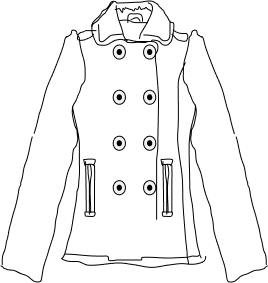
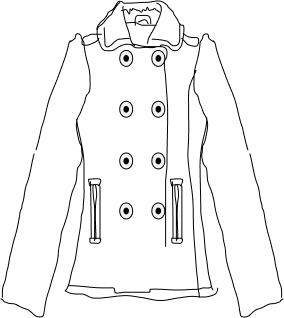
sketch projects Block Fix

diff --git a/index.html b/index.html
@@ -101,20 +101,20 @@
         <h2 class="my-4 p-4 custom-bg-black text-white d-inline-block">Glen's top sketch Projects</h2>
       </div>
 
-      <div class="d-flex flex-wrap flex-column justify-content-center flex-md-row px-5 px-md-0 px-xl-5 pb-2 group-sketch-projects">
+      <div class="d-flex flex-wrap flex-row justify-content-center px-5 pb-2 group-sketch-projects">
         <!--Sketch-project1-->
-        <div class="col-12 col-sm-10 mx-auto col-md-5 col-lg-4 d-flex mt-5 pr-1 custom-bg-sketch1">
-          <div class="col col-sm-7 pr-0">
+        <div class="mx-auto d-flex mt-5 pr-1 custom-bg-sketch1">
+          <div class="col-7 pr-0 position-relative">
             <div class="mt-4 ml-0 ml-sm-2 mr-0 pt-2 text-center bg-white">
               <div class="h3 m-0 font-weight-bold text-dark">Flat Sketches</div>
               <div class="h4 m-0">Swing Gown</div>
             </div>
 
-            <div class="col-12 h-75 mx-auto position-relative" id="image-sketch-project1">
+            <div class="w-100 h-100 mx-auto position-absolute" id="image-sketch-project1">
             </div>
           </div>
 
-          <div class="bg-white p-3 col col-sm-5">
+          <div class="bg-white p-3 col-5">
             <p class="mt-3">
               <span class="font-weight-bold">Flat Fashion: </span> <br>
               Summer Dress
@@ -133,18 +133,18 @@
         </div>
 
         <!--Sketch-project2-->
-        <div class="col-12 col-sm-10 mx-auto col-md-5 col-lg-4 d-flex mt-5 pr-1 custom-bg-sketch2">
-          <div class="col col-sm-7 pr-0">
+        <div class="mx-auto d-flex mt-5 pr-1 custom-bg-sketch2">
+          <div class="col-7 pr-0 position-relative">
             <div class="mt-4 ml-0 ml-sm-2 mr-0 pt-2 text-center bg-white">
               <div class="h3 m-0 font-weight-bold text-dark">Flat Sketches</div>
               <div class="h4 m-0">Show Back</div>
             </div>
 
-            <div class="col-12 h-75 mx-auto position-relative" id="image-sketch-project2">
+            <div class="w-100 h-100 mx-auto position-absolute" id="image-sketch-project2">
             </div>
           </div>
 
-          <div class="bg-white p-3 col col-sm-5">
+          <div class="bg-white p-3 col-5">
             <p class="mt-3">
               <span class="font-weight-bold">Flat Fashion: </span> <br>
               Summer Dress
@@ -163,14 +163,14 @@
         </div>
 
         <!--Sketch-project3-->
-        <div class="col-12 col-sm-10 mx-auto col-md-5 col-lg-4 d-flex mt-5 pr-1 custom-bg-sketch3">
-          <div class="col col-sm-7 pr-0">
+        <div class="mx-auto d-flex mt-5 pr-1 custom-bg-sketch3">
+          <div class="col-7 pr-0 position-relative">
             <div class="mt-4 ml-0 ml-sm-2 mr-0 pt-2 text-center bg-white">
               <div class="h3 m-0 font-weight-bold text-dark">Flat Sketches</div>
               <div class="h4 m-0">Coat/Jacket</div>
             </div>
 
-            <div class="col-12 h-75 mx-auto position-relative" id="image-sketch-project3">
+            <div class="w-100 h-100 x-auto position-absolute" id="image-sketch-project3">
             </div>
           </div>
 

diff --git a/assets/css/style.css b/assets/css/style.css
@@ -168,26 +168,23 @@
 /*Section Sketch-projects*/
 /*background of each sketch-project*/
 #sketch-projects #image-sketch-project1 {
-  background: url("../images/image-sketch-project1.png") no-repeat center border-box;
-  background-size: contain;
+  background: url("../images/image-sketch-project1.png") no-repeat center bottom/93% border-box;
   left: 0;
-  top: 5%;
+  bottom: -80px;
 }
 
 #sketch-projects #image-sketch-project2 {
-  background: url("../images/image-sketch-project2.png") no-repeat center border-box;
-  background-size: contain;
+  background: url("../images/image-sketch-project2.png") no-repeat center bottom/87% border-box;
 
   left: 0;
-  top: 5%;
+  bottom: -80px;
 }
 
 #sketch-projects #image-sketch-project3 {
-  background: url("../images/image-sketch-project3.png") no-repeat center border-box;
-  background-size: contain;
+  background: url("../images/image-sketch-project3.png") no-repeat center 80%/100% border-box;
 
   left: 0;
-  top: 5%;
+  bottom: -80px;
 }
 
 .custom-bg-sketch1,
@@ -199,6 +196,12 @@
   background-color: #F2F2F2;
 }
 
+/*Section Sketch-projects*/
+.group-sketch-projects > div {
+  width: 388px;
+  margin-bottom: 90px;
+}
+/*end Section Sketch-projects*/
 
 /*end Section Sketch-projects*/
 
@@ -275,7 +278,7 @@
   .group-sketch-projects > div {
     margin-bottom: 10%;
   }
-  /*Section*/
+  /*end Section Sketch-projects*/
 
   /*Section Home*/
   #home .rotate {
@@ -303,7 +306,22 @@
       margin-top: -10%;
     }
     /*end section collection*/
+
+    /*Section Sketch-projects*/
+  .group-sketch-projects > div {
+    width: auto;
   }
+  /*end Section Sketch-projects*/
+  }
+
+  /*Section sketch-projects*/
+  #sketch-projects #image-sketch-project1,
+  #sketch-projects #image-sketch-project2,
+  #sketch-projects #image-sketch-project3 {
+    background-size: contain;
+  }
+  
+  /*end Section sketch-projects*/
 }
 
 /* Small devices (landscape phones, less than 768px) */
@@ -311,6 +329,15 @@
   html {
     font-size: x-small;
   }
+
+  /*Section sketch-projects*/
+  #sketch-projects #image-sketch-project1,
+  #sketch-projects #image-sketch-project2,
+  #sketch-projects #image-sketch-project3 {
+    background-size: contain;
+  }
+  
+  /*end Section sketch-projects*/
 }
 
 /* Medium devices (tablets, less than 992px) */
@@ -318,6 +345,15 @@
   html {
     font-size: 12px;
   }
+
+  /*Section sketch-projects*/
+  #sketch-projects #image-sketch-project1,
+  #sketch-projects #image-sketch-project2,
+  #sketch-projects #image-sketch-project3 {
+    background-size: contain;
+  }
+  
+  /*end Section sketch-projects*/
 }
 
 /* Large devices (desktops, less than 1200px) */
